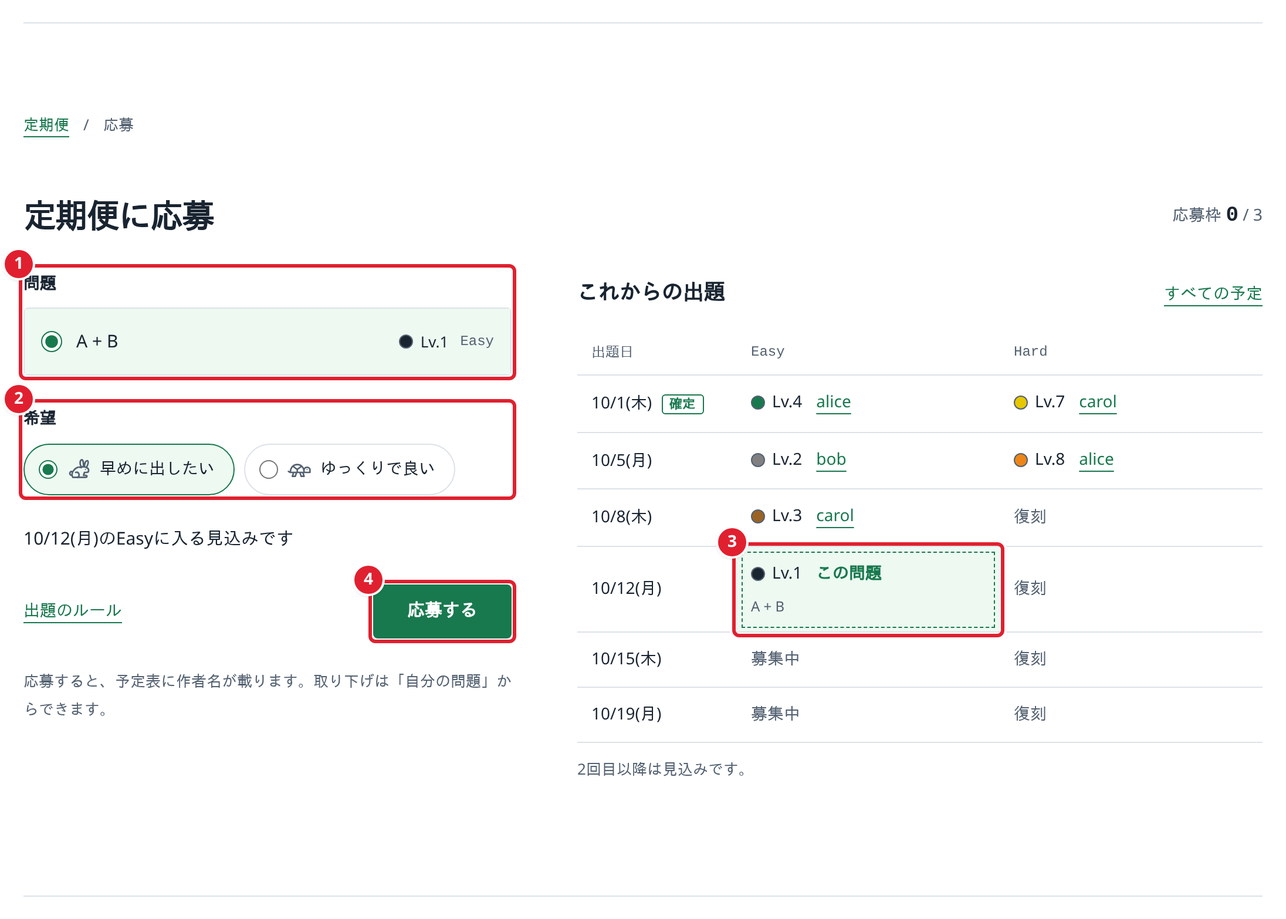
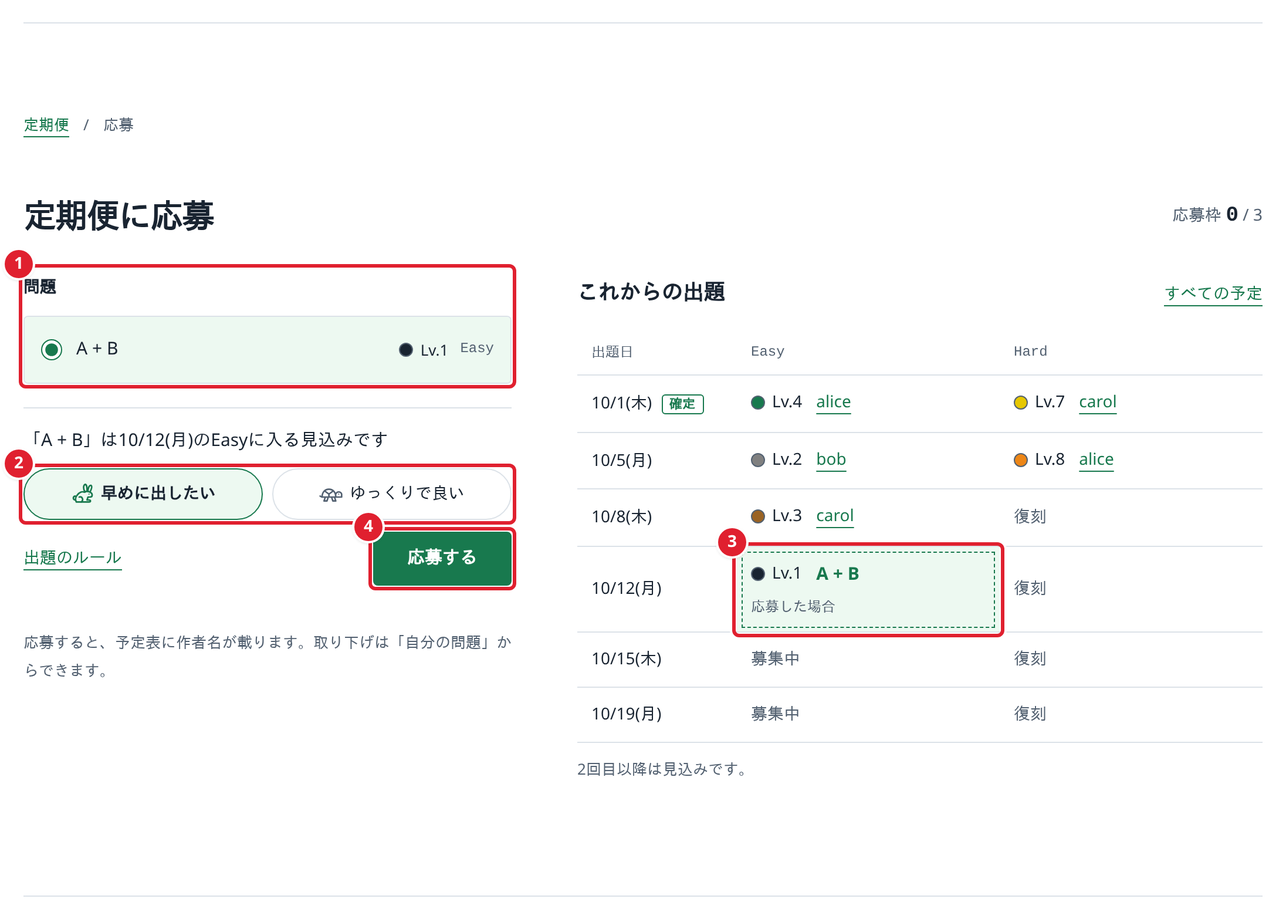
feat: 定期便の応募で問題名を予定表に出し、応募不可の問題を隠すスイッチと、選択と応募ボタンを画面下に固定する帯を付ける

diff --git a/web/app/pages/featured/apply.vue b/web/app/pages/featured/apply.vue
@@ -45,10 +45,10 @@ watch([selected, preference], loadPlan)
 const projection = computed(() => {
   if (!selected.value || !plan.value) return ''
   const index = plan.value.rounds.findIndex(round => round.slots.some(slot => slot.trial))
-  if (index < 0) return plan.value.rounds.length ? `${plan.value.rounds.length}回より先になる見込みです` : ''
+  if (index < 0) return plan.value.rounds.length ? `「${current.value?.title.trim() || '無題の問題'}」は${plan.value.rounds.length}回より先になる見込みです` : ''
   const round = plan.value.rounds[index]!
   const slot = round.slots.find(entry => entry.trial)!.slot === 'easy' ? 'Easy' : 'Hard'
-  return `${index ? '' : '次回、'}${featuredDay(round.scheduledAt)}の${slot}に入る見込みです`
+  return `「${current.value?.title.trim() || '無題の問題'}」は${index ? '' : '次回、'}${featuredDay(round.scheduledAt)}の${slot}に入る見込みです`
 })
 
 onMounted(async () => {
@@ -91,19 +91,23 @@ async function apply() {
         <p v-else-if="!signedIn"><NuxtLink to="/login?next=/featured/apply">ログイン</NuxtLink>すると、自分の問題を応募できます。</p>
         <EmptyState v-else-if="!choices.length" kind="problem" title="応募できる未公開の問題はありません。" description="解説とテストケースまで書いた問題を保存すると、ここから応募できます。"><NuxtLink class="editor-button" to="/problems/new?fresh=1">新規問題を作成</NuxtLink></EmptyState>
         <form v-else @submit.prevent="apply">
-          <ProblemChoiceList v-model="selected" legend="問題" name="featured-problem" :choices="choices" :disabled="busy" />
-          <fieldset class="apply-preference" :disabled="busy || !selected">
-            <legend>希望</legend>
-            <div>
-              <label v-for="(text, value) in preferenceLabels" :key="value"><input v-model="preference" type="radio" name="featured-preference" :value="value"><FeaturedPreferenceIcon :preference="value" :size="20" />{{ text }}</label>
+          <ProblemChoiceList v-model="selected" legend="問題" name="featured-problem" :choices="choices" :disabled="busy" hide-blocked-label="応募不可の問題を隠す" bounded />
+          <!-- However long the list grows, the choice, the preference it depends on and the button stay on screen. -->
+          <div class="apply-bar">
+            <p v-if="status" class="apply-status" role="status"><svg viewBox="0 0 24 24" aria-hidden="true"><path d="m5 12 5 5 9-10" /></svg>{{ status }}</p>
+            <p v-else-if="error" role="alert" class="editor-error">{{ error }}</p>
+            <p v-else-if="projection" class="apply-projection">{{ projection }}</p>
+            <p v-else class="apply-projection apply-empty">{{ selected ? '' : '問題を選ぶと、入る見込みの回を表示します' }}</p>
+            <fieldset class="apply-preference" :disabled="busy || !selected">
+              <legend>希望</legend>
+              <div>
+                <label v-for="(text, value) in preferenceLabels" :key="value"><input v-model="preference" type="radio" name="featured-preference" :value="value"><FeaturedPreferenceIcon :preference="value" :size="20" />{{ text }}</label>
+              </div>
+            </fieldset>
+            <div class="apply-actions">
+              <NuxtLink to="/docs/featured">出題のルール</NuxtLink>
+              <button class="editor-button primary" :disabled="busy || !selected || unchanged" :aria-busy="busy">{{ label }}</button>
             </div>
-          </fieldset>
-          <p v-if="projection && !status" class="apply-projection" aria-live="polite">{{ projection }}</p>
-          <p v-if="status" class="apply-status" role="status"><svg viewBox="0 0 24 24" aria-hidden="true"><path d="m5 12 5 5 9-10" /></svg>{{ status }}</p>
-          <p v-if="error" role="alert" class="editor-error">{{ error }}</p>
-          <div class="apply-actions">
-            <NuxtLink to="/docs/featured">出題のルール</NuxtLink>
-            <button class="editor-button primary" :disabled="busy || !selected || unchanged" :aria-busy="busy">{{ label }}</button>
           </div>
           <p class="apply-note">応募すると、予定表に作者名が載ります。取り下げは「自分の問題」からできます。</p>
         </form>
@@ -111,7 +115,7 @@ async function apply() {
       <section class="apply-schedule" aria-labelledby="apply-schedule-title" :aria-busy="planLoading">
         <div class="apply-schedule-heading"><h2 id="apply-schedule-title">これからの出題</h2><NuxtLink to="/featured/schedule">すべての予定</NuxtLink></div>
         <template v-if="plan">
-          <FeaturedSchedule :plan="plan" :rounds="6" />
+          <FeaturedSchedule :plan="plan" :rounds="6" :trial-label="current?.featuredPreference ? '応募中' : '応募した場合'" />
           <p class="apply-note">2回目以降は見込みです。</p>
         </template>
         <p v-else-if="planFailed" role="alert" class="editor-error">予定を取得できませんでした。<button type="button" class="editor-button" @click="loadPlan">再試行</button></p>
@@ -124,26 +128,35 @@ async function apply() {
 <style scoped>
 /* Hallmark · pre-emit critique: P4 H4 E4 S5 R5 V4 · existing ShareOJ tokens (Plain · modern-minimal)
  * Form left, schedule right from 60rem; stacked below. The schedule answers "when would mine go out" as the choice changes.
+ * The list scrolls inside a bounded box; the projection, preference and button sit in a bar pinned to the bottom, so no list length hides them.
  * States: guest, loading, load error, empty, choosable/blocked rows, busy, applied, unchanged, request error, schedule error. */
 .featured-apply > .breadcrumb { padding-top: 0; }
 .apply-quota { color: var(--color-muted); font-size: .875rem; white-space: nowrap; font-variant-numeric: tabular-nums; }
 .apply-quota b { color: var(--color-ink); font-family: var(--font-code); font-size: 1.125rem; font-weight: 600; }
 .apply-layout { display: grid; grid-template-columns: minmax(0, 1fr); gap: 48px; }
-.apply-form form { display: grid; gap: 24px; }
+.apply-form form { display: grid; gap: 20px; }
 .apply-preference { min-width: 0; margin: 0; padding: 0; border: 0; }
-.apply-preference legend { margin-bottom: 8px; padding: 0; font-size: .875rem; font-weight: 600; }
-.apply-preference div { display: flex; flex-wrap: wrap; gap: 8px; }
-.apply-preference label { display: inline-flex; align-items: center; gap: 8px; min-height: 44px; padding: 6px 16px 6px 12px; border: 1px solid var(--color-line); border-radius: 999px; font-size: .875rem; white-space: nowrap; cursor: pointer; }
-.apply-preference label:has(input:checked) { border-color: var(--color-accent); background: var(--color-accent-soft); }
-.apply-preference input { width: 16px; height: 16px; margin: 0; accent-color: var(--color-accent); }
-.apply-preference input:focus-visible { outline: 3px solid var(--color-accent); outline-offset: 3px; }
+/* The pills say what they are; the legend still names the group for screen readers. */
+.apply-preference legend { position: absolute; width: 1px; height: 1px; overflow: hidden; clip-path: inset(50%); white-space: nowrap; }
+/* Two equal halves that always fit one row; the whole half is the radio's hit area. */
+.apply-preference div { display: grid; grid-template-columns: repeat(2, minmax(0, 1fr)); gap: 8px; }
+.apply-preference label { position: relative; display: inline-flex; align-items: center; justify-content: center; gap: 6px; min-height: 44px; padding: 6px 10px; border: 1px solid var(--color-line); border-radius: 999px; font-size: .875rem; white-space: nowrap; cursor: pointer; }
+.apply-preference input { position: absolute; inset: 0; width: 100%; height: 100%; margin: 0; opacity: 0; cursor: pointer; }
+.apply-preference label:has(input:checked) { border-color: var(--color-accent); background: var(--color-accent-soft); font-weight: 600; }
+.apply-preference label:has(input:checked) svg { color: var(--color-accent); }
+.apply-preference label:has(input:focus-visible) { outline: 3px solid var(--color-accent); outline-offset: 2px; }
+.apply-preference label:active { transform: translateY(1px); }
 .apply-preference:disabled label { opacity: .55; cursor: not-allowed; }
-.apply-preference label svg { color: var(--color-muted); }
+.apply-preference:disabled input { cursor: not-allowed; }
+.apply-preference label svg { flex: none; color: var(--color-muted); }
 @media (hover: hover) {
   .apply-preference:not(:disabled) label:not(:has(input:checked)):hover { background: var(--color-surface); }
 }
-.apply-projection { margin: 0; font-size: .9375rem; font-weight: 500; }
-.apply-status { display: flex; align-items: flex-start; gap: 8px; margin: 0; color: var(--color-accent); font-size: .9375rem; font-weight: 500; }
+.apply-bar { position: sticky; bottom: 0; z-index: 1; display: grid; gap: 10px; padding-block: 14px 16px; border-top: 1px solid var(--color-line); background: var(--color-paper); }
+.apply-bar > p { margin: 0; }
+.apply-projection { min-height: 1lh; font-size: .9375rem; font-weight: 500; overflow-wrap: anywhere; }
+.apply-empty { color: var(--color-muted); font-size: .8125rem; font-weight: 400; }
+.apply-status { display: flex; align-items: flex-start; gap: 8px; color: var(--color-accent); font-size: .9375rem; font-weight: 500; overflow-wrap: anywhere; }
 .apply-status svg { flex: none; width: 20px; height: 20px; margin-top: 4px; fill: none; stroke: currentColor; stroke-width: 2.2; stroke-linecap: round; stroke-linejoin: round; }
 .apply-form .editor-error { margin: 0; }
 .apply-actions { display: flex; flex-wrap: wrap; align-items: center; justify-content: space-between; gap: 12px; }
@@ -157,6 +170,9 @@ async function apply() {
 .apply-schedule-heading a { display: inline-flex; align-items: center; min-height: 44px; font-size: .875rem; white-space: nowrap; }
 .apply-schedule .apply-note { margin-top: 10px; }
 .apply-schedule .editor-button { margin-left: 12px; }
+@media (max-width: 400px) {
+  .apply-preference label { padding-inline: 6px; gap: 4px; font-size: .8125rem; }
+}
 @media (min-width: 60rem) {
   .apply-layout { grid-template-columns: minmax(0, 26rem) minmax(0, 1fr); gap: 56px; align-items: start; }
 }

diff --git a/web/app/components/ProblemChoiceList.vue b/web/app/components/ProblemChoiceList.vue
@@ -1,15 +1,34 @@
 <script setup lang="ts">
 import type { ProblemChoice } from '~/utils/problem-choices'
-const props = defineProps<{ choices: ProblemChoice[], legend: string, name: string, disabled?: boolean }>()
+// hideBlockedLabel adds a toggle that hides blocked problems; bounded keeps a long list from pushing the rest of the form away.
+const props = defineProps<{ choices: ProblemChoice[], legend: string, name: string, disabled?: boolean, hideBlockedLabel?: string, bounded?: boolean }>()
 const selected = defineModel<string>({ required: true })
 const noteId = (choice: ProblemChoice) => choice.reason || choice.note ? `${props.name}-${choice.id}-note` : undefined
+const hideBlocked = ref(false)
+const blockedCount = computed(() => props.choices.filter(choice => choice.reason).length)
+const shown = computed(() => hideBlocked.value ? props.choices.filter(choice => !choice.reason || choice.id === selected.value) : props.choices)
+const list = ref<HTMLUListElement>()
+// A problem chosen from a link may sit below the fold of the list; bring it into view without moving the page.
+watch(selected, async () => {
+  if (!props.bounded) return
+  await nextTick()
+  const box = list.value
+  const row = box?.querySelector('input:checked')?.closest('li')
+  if (!box || !(row instanceof HTMLElement)) return
+  if (row.offsetTop < box.scrollTop || row.offsetTop + row.offsetHeight > box.scrollTop + box.clientHeight) box.scrollTop = row.offsetTop - (box.clientHeight - row.offsetHeight) / 2
+}, { immediate: true })
 </script>
 
 <template>
   <fieldset class="problem-choices" :disabled="disabled">
     <legend>{{ legend }}</legend>
-    <ul>
-      <li v-for="choice in choices" :key="choice.id">
+    <label v-if="hideBlockedLabel && blockedCount" class="choices-switch">
+      <input v-model="hideBlocked" type="checkbox" role="switch">
+      <span class="switch-track" aria-hidden="true"><span class="switch-thumb" /></span>
+      {{ hideBlockedLabel }}<span class="choices-count">{{ blockedCount }}件</span>
+    </label>
+    <ul ref="list" :data-bounded="bounded || undefined">
+      <li v-for="choice in shown" :key="choice.id">
         <label :data-blocked="!!choice.reason || undefined">
           <input v-model="selected" type="radio" :name="name" :value="choice.id" :disabled="!!choice.reason" :aria-describedby="noteId(choice)">
           <span class="choice-title">{{ choice.title }}</span>
@@ -18,33 +37,55 @@ const noteId = (choice: ProblemChoice) => choice.reason || choice.note ? `${prop
         </label>
       </li>
     </ul>
+    <p v-if="hideBlocked" class="choices-hidden" role="status">{{ blockedCount }}件を隠しています</p>
   </fieldset>
 </template>
 
 <style scoped>
 /* Hallmark · component: problem radio list · genre: modern-minimal · theme: existing ShareOJ tokens (Plain)
  * states: default · hover · focus-visible · checked · disabled (with reason) · whole list disabled while busy
- * One bordered list, rows split by rules; the reason sits under the title instead of a tooltip. */
+ * switch: off · on · hover · focus-visible · active · disabled · reduced motion
+ * One bordered list, rows split by rules; the reason sits under the title instead of a tooltip. A bounded list scrolls inside itself. */
 .problem-choices { min-width: 0; margin: 0; padding: 0; border: 0; }
-.problem-choices legend { margin-bottom: 8px; padding: 0; font-size: .875rem; font-weight: 600; }
-ul { margin: 0; padding: 0; list-style: none; border: 1px solid var(--color-line); border-radius: 4px; }
+/* The floated legend shares its row with the toggle and still names the group. */
+.problem-choices legend { float: left; margin-bottom: 8px; padding: 0; font-size: .875rem; font-weight: 600; line-height: 32px; }
+/* A switch is a checkbox: the input covers the whole label, so a click toggles it without moving focus or the page. */
+.choices-switch { position: relative; float: right; display: inline-flex; align-items: center; gap: 8px; min-height: 44px; margin: -6px 0 2px; font-size: .8125rem; white-space: nowrap; cursor: pointer; }
+.choices-switch input { position: absolute; inset: 0; width: 100%; height: 100%; margin: 0; opacity: 0; cursor: pointer; }
+.switch-track { position: relative; flex: none; width: 34px; height: 20px; border: 1px solid var(--color-muted); border-radius: 999px; background: var(--color-surface); }
+.switch-thumb { position: absolute; top: 2px; left: 2px; width: 14px; height: 14px; border-radius: 50%; background: var(--color-muted); transition: transform 120ms cubic-bezier(.2, 0, 0, 1); }
+.choices-switch input:checked + .switch-track { border-color: var(--color-accent); background: var(--color-accent); }
+.choices-switch input:checked + .switch-track .switch-thumb { background: var(--color-paper); transform: translateX(14px); }
+.choices-switch input:focus-visible + .switch-track { outline: 3px solid var(--color-accent); outline-offset: 2px; }
+.choices-switch input:active + .switch-track .switch-thumb { width: 16px; }
+.choices-switch:has(input:disabled) { opacity: .55; cursor: not-allowed; }
+.choices-switch input:disabled { cursor: not-allowed; }
+.choices-count { color: var(--color-muted); font-family: var(--font-code); font-size: .75rem; }
+ul { clear: both; margin: 0; padding: 0; list-style: none; border: 1px solid var(--color-line); border-radius: 4px; }
+ul[data-bounded] { position: relative; max-height: min(19rem, 42dvh); overflow-y: auto; overscroll-behavior: contain; }
 li + li { border-top: 1px solid var(--color-line); }
-label { display: grid; grid-template-columns: auto minmax(0, 1fr) auto; align-items: center; gap: 2px 12px; min-height: 56px; padding: 8px 14px; cursor: pointer; }
-label:has(input:checked) { background: var(--color-accent-soft); }
-label[data-blocked] { color: var(--color-muted); cursor: not-allowed; }
-input { width: 18px; height: 18px; margin: 0; accent-color: var(--color-accent); }
-input:focus-visible { outline: 3px solid var(--color-accent); outline-offset: 3px; }
-input:disabled { cursor: not-allowed; }
+li label { display: grid; grid-template-columns: auto minmax(0, 1fr) auto; align-items: center; gap: 2px 12px; min-height: 56px; padding: 8px 14px; cursor: pointer; }
+li label:has(input:checked) { background: var(--color-accent-soft); }
+li label[data-blocked] { color: var(--color-muted); cursor: not-allowed; }
+li input { width: 18px; height: 18px; margin: 0; accent-color: var(--color-accent); }
+li input:focus-visible { outline: 3px solid var(--color-accent); outline-offset: 3px; }
+li input:disabled { cursor: not-allowed; }
 .choice-title { min-width: 0; font-size: .9375rem; font-weight: 500; overflow-wrap: anywhere; }
 .choice-meta { display: inline-flex; align-items: center; gap: 10px; font-size: .8125rem; white-space: nowrap; }
 .choice-slot { color: var(--color-muted); font-family: var(--font-code); font-size: .75rem; }
 .choice-note { grid-column: 2 / -1; font-size: .75rem; line-height: 1.6; color: var(--color-muted); overflow-wrap: anywhere; }
 .choice-note[data-reason] { color: var(--color-error); }
-.problem-choices:disabled label { cursor: progress; }
+.choices-hidden { margin: 6px 0 0; color: var(--color-muted); font-size: .75rem; }
+.problem-choices:disabled li label { cursor: progress; }
 @media (hover: hover) {
-  label:not([data-blocked]):not(:has(input:checked)):hover { background: var(--color-surface); }
+  li label:not([data-blocked]):not(:has(input:checked)):hover { background: var(--color-surface); }
+  .choices-switch:hover .switch-track { border-color: var(--color-ink); }
+  .choices-switch:hover input:checked + .switch-track { border-color: var(--color-accent); }
+}
+@media (prefers-reduced-motion: reduce) {
+  .switch-thumb { transition: none; }
 }
 @media (max-width: 400px) {
-  label { padding-inline: 10px; gap: 2px 10px; }
+  li label { padding-inline: 10px; gap: 2px 10px; }
 }
 </style>

diff --git a/web/tests/featured.spec.ts b/web/tests/featured.spec.ts
@@ -92,7 +92,11 @@ test('authors choose a problem and preference, see where it lands, apply and wit
   await expect(page.locator('.apply-schedule')).toContainText('確定')
   await choices.getByRole('radio', { name: /応募する問題/ }).check()
   await expect(page.locator('.apply-projection')).toContainText('10/5')
-  await expect(page.locator('.apply-schedule td[data-trial]')).toContainText('この問題')
+  const placed = page.locator('.apply-schedule td[data-trial]')
+  // The chosen problem shows by name, marked as a what-if until it is applied.
+  await expect(placed).toContainText('応募する問題')
+  await expect(placed).toContainText('応募した場合')
+  await expect(page.locator('.apply-bar')).toContainText('「応募する問題」は10/5')
   await page.getByRole('radio', { name: 'ゆっくりで良い' }).check()
   await expect(page.locator('.apply-projection')).toContainText('10/12')
   expect(plans.at(-1)?.get('preference')).toBe('later')
@@ -108,7 +112,8 @@ test('authors choose a problem and preference, see where it lands, apply and wit
   await submit.click()
   await expect(page.getByRole('alert')).toContainText('難易度・解説')
   await submit.click()
-  await expect(page.getByRole('status')).toContainText('応募しました。10/12')
+  await expect(page.getByRole('status')).toContainText('応募しました。「応募する問題」は10/12')
+  await expect(placed).toContainText('応募中')
   await expect(page.getByRole('button', { name: '応募済み', exact: true })).toBeDisabled()
   await expect(page.getByText('応募枠 1 / 3')).toBeVisible()
   await page.getByRole('radio', { name: '早めに出したい' }).check()
@@ -146,6 +151,44 @@ test('authors choose a problem and preference, see where it lands, apply and wit
   expect(withdrawals).toBe(2)
   await expect(row).toContainText('準備中')
   await expect(row.getByRole('img')).toHaveCount(0)
+})
+
+test('a long list scrolls inside itself, can hide blocked problems, and keeps the button on screen', async ({ page }, testInfo) => {
+  const items = Array.from({ length: 30 }, (_, index) => ({
+    id: `aaaaaaaa-aaaa-4aaa-8aaa-${String(index).padStart(12, '0')}`, title: `問題 ${index + 1}`, difficulty: index % 10 + 1, updatedAt,
+    readiness: { publish: [], contest: [], featured: index % 3 ? ['editorial_missing'] : [] },
+  }))
+  const last = items[27]!
+  await page.route(/\/api\/my\/problems(?:\?.*)?$/, route => route.fulfill({ json: { items, nextCursor: '' } }))
+  await page.route('**/api/my/featured/schedule**', async route => route.fulfill({ json: await (await page.request.get('/api/featured/schedule')).json() }))
+  for (const size of [{ width: 1280, height: 800 }, { width: 375, height: 812 }]) {
+    await page.setViewportSize(size)
+    await page.goto(`/featured/apply?problem=${last.id}`)
+    const radio = page.getByRole('radio', { name: /問題 28/ })
+    await expect(radio).toBeChecked()
+    // The problem chosen by the link is scrolled into the list's view, not the page's.
+    await expect(radio).toBeInViewport()
+    await expect(page.getByRole('button', { name: '応募する', exact: true })).toBeInViewport()
+    await expect(page.getByRole('radio', { name: 'ゆっくりで良い' })).toBeInViewport()
+    await expect(page.locator('.apply-bar')).toContainText('「問題 28」は')
+    expect(await page.evaluate(() => scrollY)).toBe(0)
+    await page.screenshot({ path: testInfo.outputPath(`apply-long-${size.width}.png`) })
+  }
+  const toggle = page.getByRole('switch', { name: /応募不可の問題を隠す/ })
+  await expect(toggle).not.toBeChecked()
+  await expect(page.locator('.choices-switch')).toContainText('20件')
+  await expect(page.getByRole('radio')).toHaveCount(32)
+  await toggle.click()
+  await expect(toggle).toBeChecked()
+  await expect(page.getByRole('group', { name: '問題' }).getByRole('radio')).toHaveCount(10)
+  await expect(page.getByRole('group', { name: '問題' }).getByRole('status')).toHaveText('20件を隠しています')
+  await expect(page.getByRole('radio', { name: /問題 28/ })).toBeChecked()
+  await page.screenshot({ path: testInfo.outputPath('apply-switch-on.png') })
+  // The keyboard turns it back off.
+  await toggle.focus()
+  await page.keyboard.press('Space')
+  await expect(toggle).not.toBeChecked()
+  await expect(page.getByRole('group', { name: '問題' }).getByRole('radio')).toHaveCount(30)
 })
 
 test('the schedule lists coming rounds with writers and fits narrow screens', async ({ page }, testInfo) => {

diff --git a/web/app/components/FeaturedSchedule.vue b/web/app/components/FeaturedSchedule.vue
@@ -1,7 +1,8 @@
 <script setup lang="ts">
 import type { FeaturedPlan } from '~~/shared/types/featured'
 import { featuredDay } from '~/utils/problem-choices'
-const props = defineProps<{ plan: FeaturedPlan, rounds?: number }>()
+// trialLabel says what the chosen problem's placement means: before applying it is a what-if.
+const props = defineProps<{ plan: FeaturedPlan, rounds?: number, trialLabel?: string }>()
 const shown = computed(() => props.plan.rounds.slice(0, props.rounds ?? props.plan.rounds.length))
 const slotNames = { easy: 'Easy', hard: 'Hard' } as const
 </script>
@@ -14,10 +15,11 @@ const slotNames = { easy: 'Easy', hard: 'Hard' } as const
         <th scope="row"><time :datetime="round.scheduledAt">{{ featuredDay(round.scheduledAt) }}</time><span v-if="round.confirmed" class="schedule-confirmed">確定</span></th>
         <td v-for="slot in round.slots" :key="slot.slot" :data-slot="slotNames[slot.slot]" :data-mine="slot.mine && !slot.trial || undefined" :data-trial="slot.trial || undefined">
           <div class="schedule-cell">
-            <template v-if="slot.kind === 'new'">
-              <span class="schedule-entry"><DifficultyBadge :level="slot.difficulty" /><strong v-if="slot.trial">この問題</strong><UserLink v-else :handle="slot.writer" /></span>
-              <span v-if="slot.title" class="schedule-title">{{ slot.title }}</span>
+            <template v-if="slot.kind === 'new' && slot.title">
+              <span class="schedule-entry schedule-own"><DifficultyBadge :level="slot.difficulty" /><strong>{{ slot.title }}</strong></span>
+              <span class="schedule-sub">{{ slot.trial ? trialLabel ?? '応募した場合' : '応募中' }}</span>
             </template>
+            <span v-else-if="slot.kind === 'new'" class="schedule-entry"><DifficultyBadge :level="slot.difficulty" /><UserLink :handle="slot.writer" /></span>
             <span v-else class="schedule-open">{{ slot.kind === 'revival' ? '復刻' : '募集中' }}</span>
           </div>
         </td>
@@ -28,7 +30,7 @@ const slotNames = { easy: 'Easy', hard: 'Hard' } as const
 
 <style scoped>
 /* Hallmark · component: featured schedule table · genre: modern-minimal · theme: existing ShareOJ tokens (Plain)
- * states: confirmed round · own problem · trial placement (dashed) · revival · open slot · link hover/focus via UserLink
+ * states: confirmed round · own problem (title) · chosen problem (title, dashed) · revival · open slot · link hover/focus via UserLink
  * Desktop: one row per round, Easy and Hard sharing the width equally. Under 40rem each round stacks with mono Easy/Hard labels, so nothing scrolls sideways. */
 .featured-schedule { width: 100%; table-layout: fixed; border-collapse: collapse; font-size: .875rem; font-variant-numeric: tabular-nums; }
 th, td { padding: 10px 12px; border-bottom: 1px solid var(--color-line); text-align: left; vertical-align: middle; }
@@ -38,8 +40,9 @@ thead th + th { font-family: var(--font-code); }
 tbody th { font-weight: 500; white-space: nowrap; }
 .schedule-confirmed { margin-left: 8px; padding: 0 6px; border: 1px solid var(--color-accent); border-radius: 3px; color: var(--color-accent); font-size: .6875rem; font-weight: 600; }
 .schedule-entry { display: inline-flex; flex-wrap: wrap; align-items: center; gap: 2px 12px; min-width: 0; overflow-wrap: anywhere; }
-.schedule-entry strong { color: var(--color-accent); font-weight: 650; }
-.schedule-title { display: block; margin-top: 2px; color: var(--color-muted); font-size: .75rem; overflow-wrap: anywhere; }
+.schedule-own strong { font-size: .9375rem; font-weight: 650; line-height: 1.6; }
+td[data-trial] .schedule-own strong { color: var(--color-accent); }
+.schedule-sub { display: block; margin-top: 2px; color: var(--color-muted); font-size: .75rem; }
 .schedule-open { color: var(--color-muted); }
 td[data-mine] { background: var(--color-accent-soft); }
 td[data-trial] { background: var(--color-accent-soft); outline: 1px dashed var(--color-accent); outline-offset: -5px; }

diff --git a/web/app/pages/problems/post.vue b/web/app/pages/problems/post.vue
@@ -74,7 +74,7 @@ async function post(cancel = false) {
     <p v-else-if="!signedIn"><NuxtLink to="/login?next=/problems/post">ログイン</NuxtLink>すると、自分の問題を投稿できます。</p>
     <EmptyState v-else-if="!choices.length" kind="problem" title="投稿できる未公開の問題はありません。" description="問題を作成して保存すると、ここから公開できます。"><NuxtLink class="editor-button" to="/problems/new?fresh=1">新規問題を作成</NuxtLink></EmptyState>
     <form v-else class="post-form" @submit.prevent="post()">
-      <ProblemChoiceList v-model="selected" legend="問題" name="post-problem" :choices="choices" :disabled="busy" />
+      <ProblemChoiceList v-model="selected" legend="問題" name="post-problem" :choices="choices" :disabled="busy" hide-blocked-label="投稿不可の問題を隠す" />
       <fieldset class="post-timing" :disabled="busy || !selected">
         <legend>公開のタイミング</legend>
         <div class="post-pills">

diff --git a/web/tests/post-problem.spec.ts b/web/tests/post-problem.spec.ts
@@ -76,6 +76,12 @@ test('posting lists unpublished problems across pages, explains blocked ones and
   await expect(choices.getByRole('radio', { name: /コンテスト用/ })).toBeDisabled()
   await expect(choices).toContainText('コンテストに登録済みのため、コンテストが終わるまで公開できません')
   await expect(choices).not.toContainText('公開済み')
+  const hide = page.getByRole('switch', { name: /投稿不可の問題を隠す/ })
+  await hide.check()
+  await expect(choices.getByRole('radio')).toHaveCount(1)
+  await expect(choices.getByRole('status')).toHaveText('1件を隠しています')
+  await hide.uncheck()
+  await expect(choices.getByRole('radio')).toHaveCount(2)
   const submit = page.getByRole('button', { name: '投稿する', exact: true })
   await expect(submit).toBeDisabled()
   for (const width of [320, 375, 414, 768, 1280]) {

diff --git a/web/app/content/docs/authoring.md b/web/app/content/docs/authoring.md
@@ -76,6 +76,7 @@
 ![投稿ページの①問題、②公開のタイミング、③投稿する](/images/docs/problem-post.png)
 
 投稿ページで①問題と②公開のタイミングを選び、③「投稿する」を押します。
+投稿できない問題は、「投稿不可の問題を隠す」で一覧から外せます。
 ②で「日時を指定」を選ぶと、予約した時点の保存内容を、指定した日時に公開します。
 予約したあとに編集した内容を公開するには、同じページで「予約を更新」してください。
 予約は「予約を取り消す」で取り消せます。

diff --git a/web/app/content/docs/featured.md b/web/app/content/docs/featured.md
@@ -35,6 +35,7 @@
 
 定期便のページの「新作を応募」か、エディタ上部の「公開・応募」から「定期便に応募」を選ぶと、応募ページを開きます。
 ①で問題、②で希望を選ぶと、右の予定表の③に、その問題が入る見込みの回を表示します。
+応募できない問題は、「応募不可の問題を隠す」で一覧から外せます。
 ④「応募する」を押すと応募できます。
 応募は作者ごとに3件までです。
 
